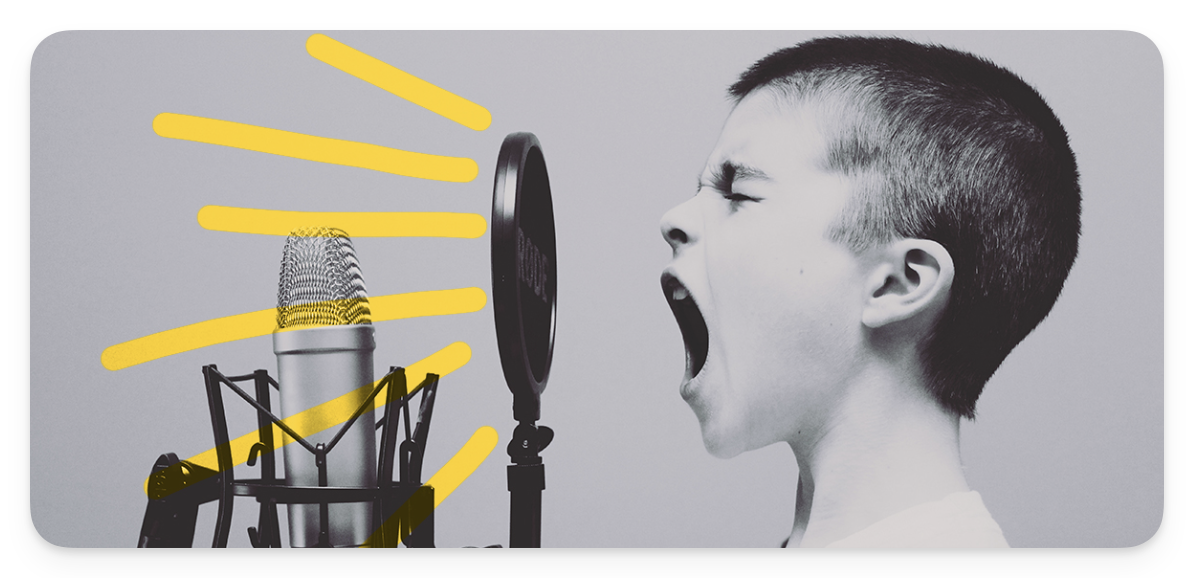
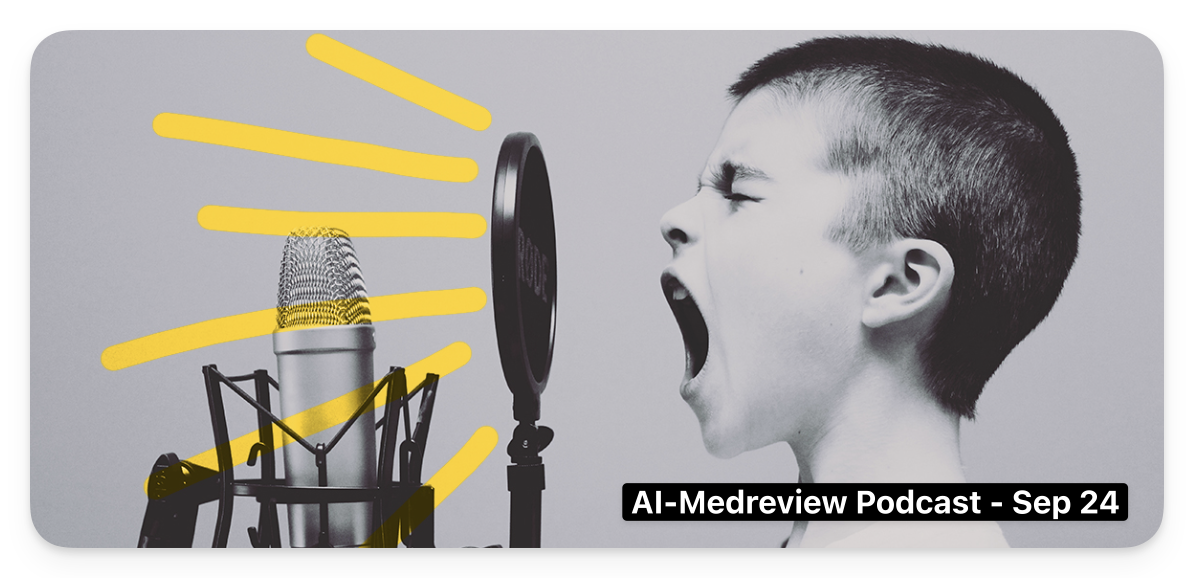
Automated commit via Python script - 2024-09-24 18:36

Changed region(s): [[0.4958, 0.8097, 0.9606, 0.9031]]

diff --git a/ai_medreview/app.py b/ai_medreview/app.py
@@ -193,7 +193,7 @@ else:
 
     # -- PCN Dashboard --------------------------------------------------------------------------------------- PCN Dashboard
     if page == "**:blue-background[PCN Dashboard]**":
-        st.toast(f"**Data version**: {data_version(data)}-**{pcn_data.shape[0]}**", icon=":material/database:")
+        st.toast(f"Listen to the **AI-MedReview podcast** for insightful discussions—find it on the **About** page!", icon=":material/mic:")
         ui.badges(badge_list=[("Data version:", "outline"), (f"{data_version(data)}", "secondary"), (f"{pcn_data.shape[0]}", "secondary")], class_name="flex gap-2", key="badges_pcn_dashboard_alert")
 
         st.markdown(
